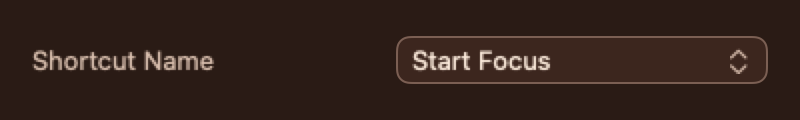
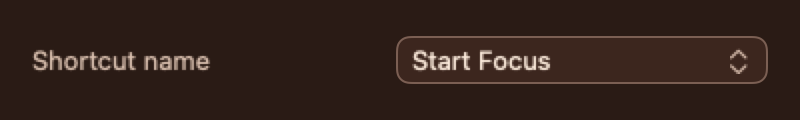
batch 21: last touch after a lift is tested; param shots use the real sentence-case rule

Changed region(s): [[0.1562, 0.425, 0.2812, 0.6]]

diff --git a/Sources/EdgyUI/Mirror/MiniMirrorView.swift b/Sources/EdgyUI/Mirror/MiniMirrorView.swift
@@ -45,6 +45,16 @@ public struct MiniMirrorView: View {
     pinnedApp = .some(frontmostApp)
   }
 
+  /// The last touch where it landed (bone 10): the frame kept after a lift is the last non-empty one.
+  static func remembered(after frame: [LiveTouch], previous: [LiveTouch]) -> [LiveTouch] {
+    frame.isEmpty ? previous : frame
+  }
+
+  /// What the mirror draws: the live fingers, or, once they lift, the last frame where they landed.
+  static func shown(live: [LiveTouch], last: [LiveTouch]) -> [LiveTouch] {
+    live.isEmpty ? last : live
+  }
+
   /// The app whose profile the mirror draws.
   /// Unpinned, it is `model.frontmostBundleID` (set by the app on activation, never Edgy itself), the
   /// same source the popover chips read, so the mirror and the chips always agree.
@@ -71,7 +81,7 @@ public struct MiniMirrorView: View {
     ZStack {
       MirrorPad(
         geometry: geometry, zones: model.mirrorZones(forApp: frontmostApp, unavailableAsUnmapped: true), selected: nil,
-        touches: device == nil ? [] : (model.liveTouches.isEmpty ? lastTouches : model.liveTouches),
+        touches: device == nil ? [] : Self.shown(live: model.liveTouches, last: lastTouches),
         faded: state.faded && !hostFades, dashedOutline: state == .noTrackpad, showsLabels: false,
         message: state == .noTrackpad ? MirrorMessage(text: MirrorCopy.noTrackpadMini) : nil
       )
@@ -80,7 +90,7 @@ public struct MiniMirrorView: View {
     }
     .animation(MirrorMotion.padSwitch, value: device?.id)
     .onChange(of: model.liveTouches, initial: true) { _, new in
-      if !new.isEmpty { lastTouches = new }
+      lastTouches = Self.remembered(after: new, previous: lastTouches)
     }
     .onChange(of: device, initial: true) { old, new in
       if let new { lastKnownSize = new.sensorSizeMM }

diff --git a/Tests/EdgyUITests/Mirror/Batch21MirrorTests.swift b/Tests/EdgyUITests/Mirror/Batch21MirrorTests.swift
@@ -167,6 +167,20 @@ struct Batch21MirrorTests {
 
   // MARK: One fade
 
+  @Test func miniMirrorKeepsTheLastTouchAfterTheLift() {
+    let down = [LiveTouch(id: 1, position: Point2D(x: 0.975, y: 0.55), state: .claimed)]
+    // Finger down: remembered and drawn.
+    let kept = MiniMirrorView.remembered(after: down, previous: [])
+    #expect(MiniMirrorView.shown(live: down, last: kept) == down)
+    // Lift (an empty frame): the last frame stays where it landed.
+    let afterLift = MiniMirrorView.remembered(after: [], previous: kept)
+    #expect(afterLift == down)
+    #expect(MiniMirrorView.shown(live: [], last: afterLift) == down)
+    // A new touch replaces it.
+    let next = [LiveTouch(id: 2, position: Point2D(x: 0.03, y: 0.4), state: .claimed)]
+    #expect(MiniMirrorView.remembered(after: next, previous: afterLift) == next)
+  }
+
   @Test func miniMirrorLeavesTheFadeToItsHost() {
     let model = PreviewFixtures.model()
     let plain = MiniMirrorView(model: model, frontmostApp: nil)

diff --git a/Tests/EdgyUITests/Inspector/Batch15SnapshotTests.swift b/Tests/EdgyUITests/Inspector/Batch15SnapshotTests.swift
@@ -210,7 +210,7 @@ import Testing
         }), "param-url-error")
     try write(
       panel(
-        LabeledParameter(label: "File or Folder") {
+        LabeledParameter(label: ActionNaming.sentenceCase("File or Folder")) {
           TextParameterField(
             text: "~/Documents/Notes", placeholder: "~/Documents", choosesPath: true,
             issueFor: { _ in nil }
@@ -218,7 +218,7 @@ import Testing
         }), "param-path")
     try write(
       panel(
-        LabeledParameter(label: "Shortcut Name") {
+        LabeledParameter(label: ActionNaming.sentenceCase("Shortcut Name")) {
           ShortcutNameField(
             name: "Start Focus", listing: nil, names: ["Start Focus", "Log Water"],
             issueFor: { _ in nil }
